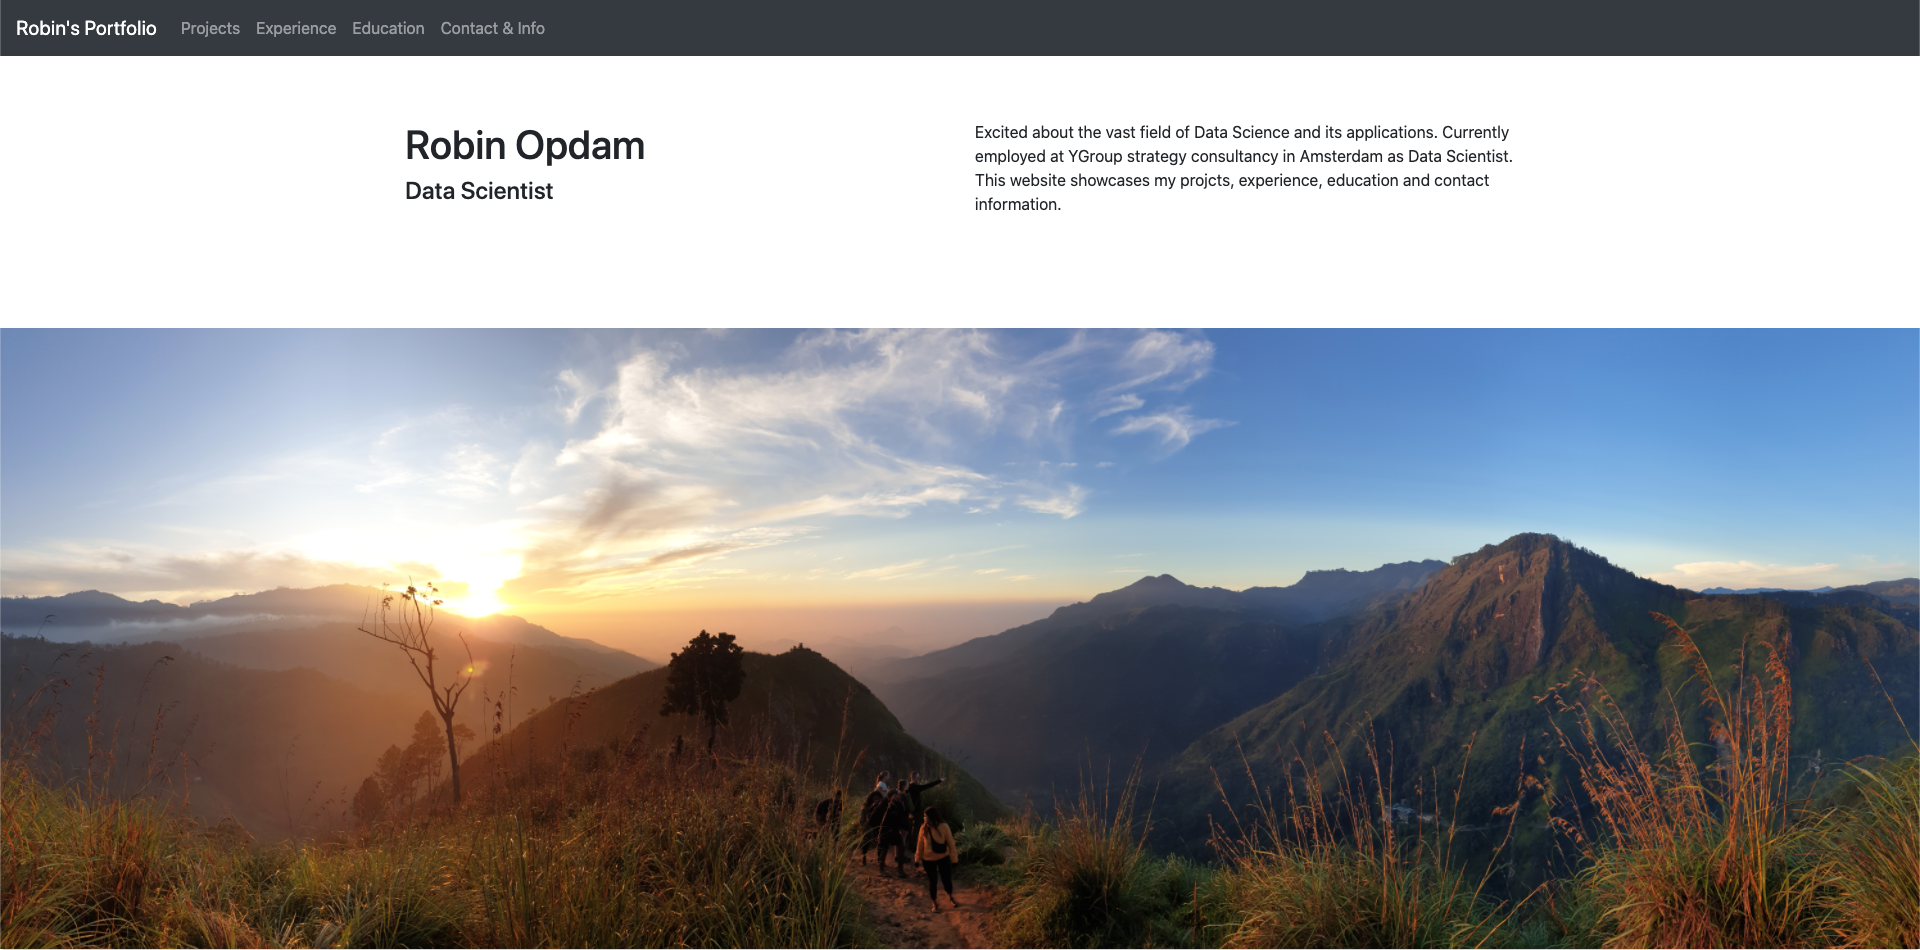
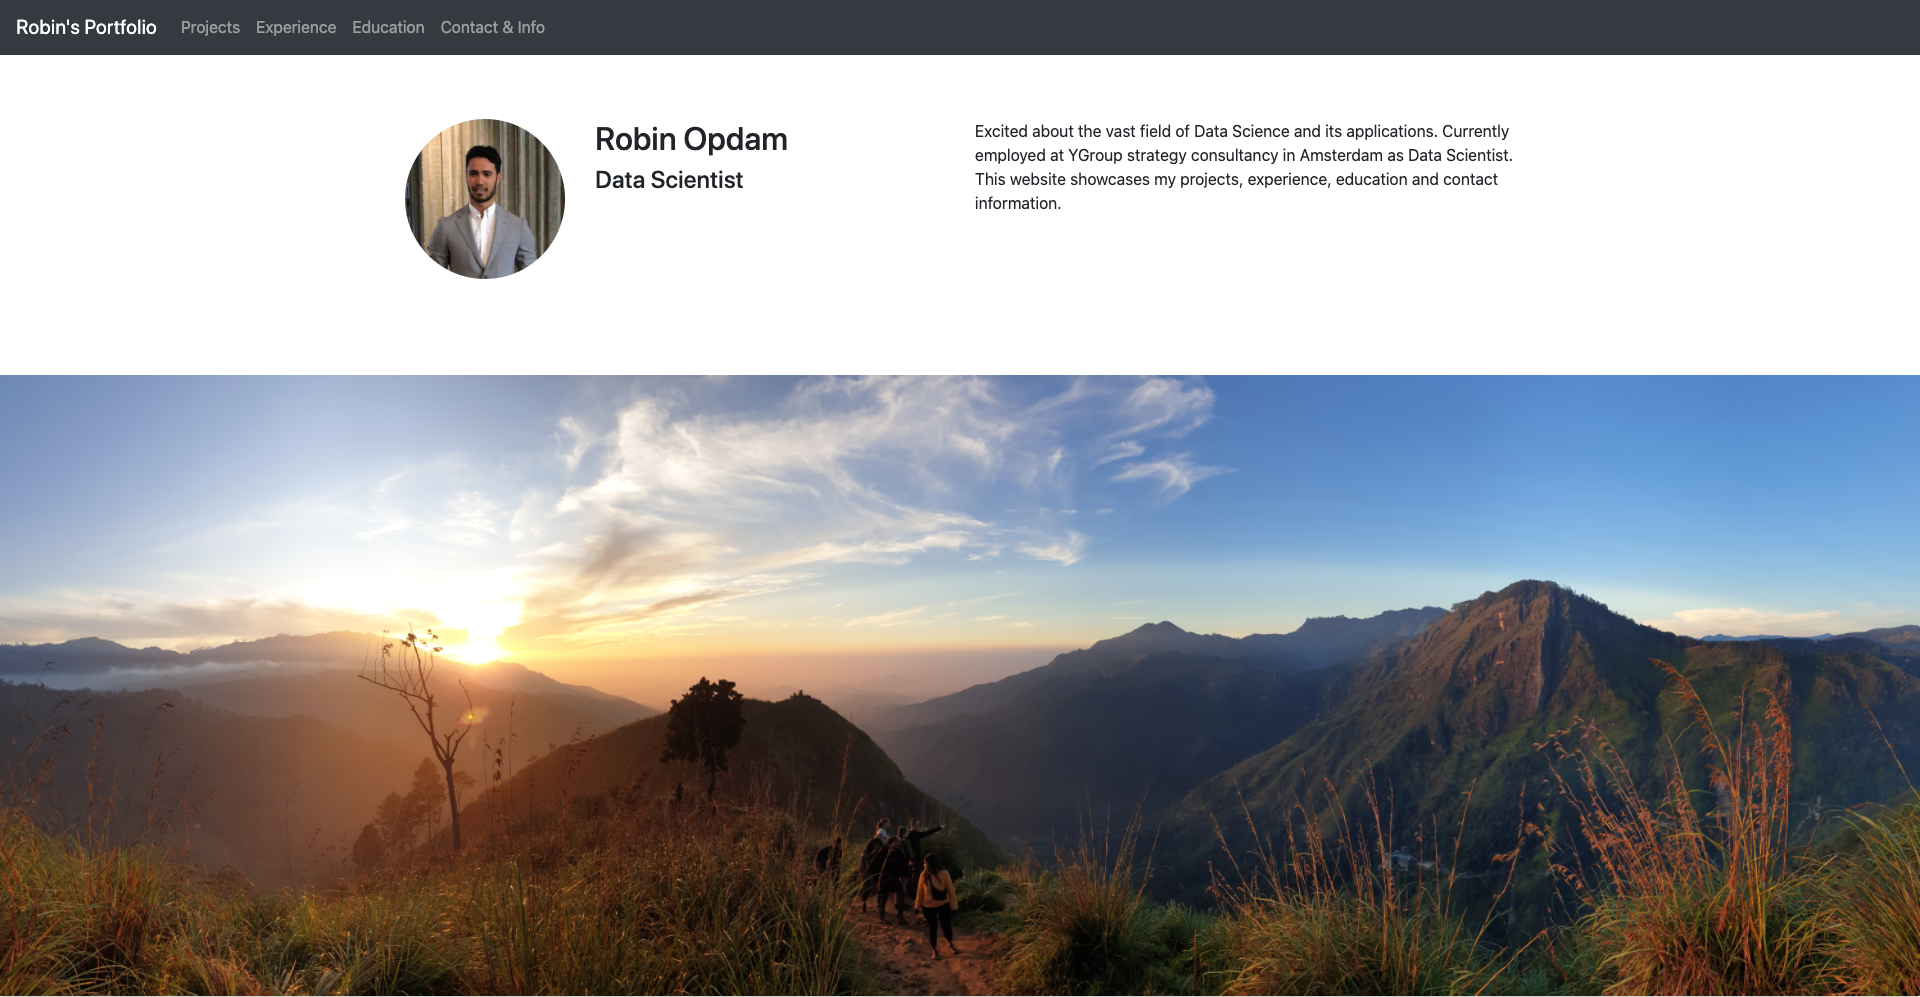
Removed image when screen < 800px

diff --git a/css/custom.css b/css/custom.css
@@ -11,8 +11,14 @@ body {
 	width: 100%;
 }
 
+@media (max-width:800px) {
+	.profile-pic {
+	  display: none;
+	}
+  }
+
 .sub-headers {
-	background-color: lightgrey
+	background-color: lightgrey;
 }
 
 .banner {
